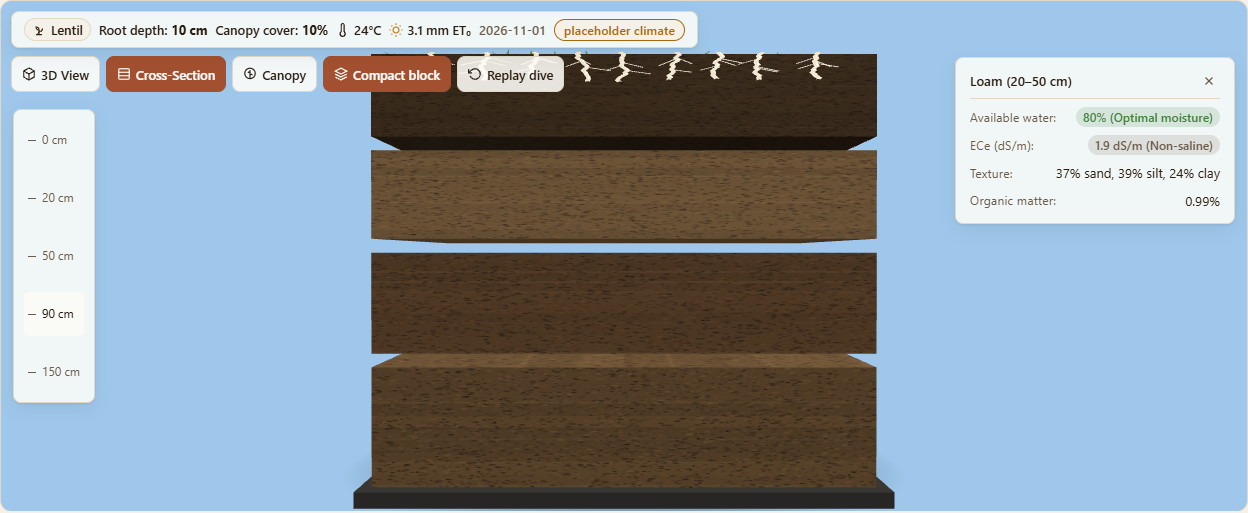
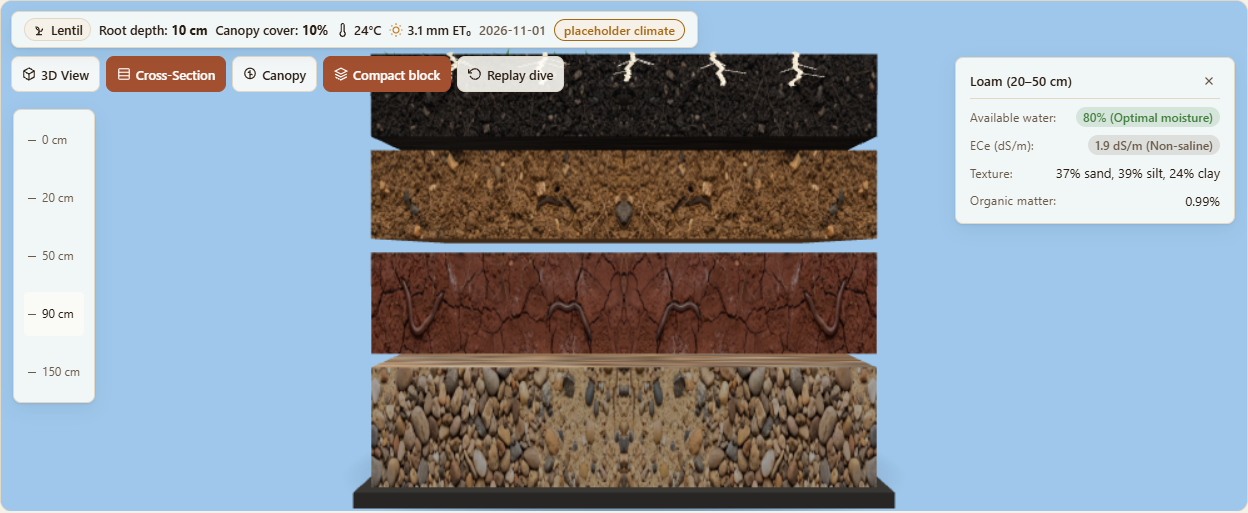
feat(web): apply authentic soil horizon textures and colors from 3d prototype

Changed region(s): [[0.2812, 0.0936, 0.7188, 0.9669]]

diff --git a/web/src/scene/SceneController.ts b/web/src/scene/SceneController.ts
@@ -3,9 +3,10 @@ import { Engine } from "@babylonjs/core/Engines/engine";
 import { DirectionalLight } from "@babylonjs/core/Lights/directionalLight";
 import { HemisphericLight } from "@babylonjs/core/Lights/hemisphericLight";
 import { DynamicTexture } from "@babylonjs/core/Materials/Textures/dynamicTexture";
+import { Texture } from "@babylonjs/core/Materials/Textures/texture";
 import { StandardMaterial } from "@babylonjs/core/Materials/standardMaterial";
 import { Color3, Color4 } from "@babylonjs/core/Maths/math.color";
-import { Matrix, Quaternion, Vector3 } from "@babylonjs/core/Maths/math.vector";
+import { Matrix, Quaternion, Vector3, Vector4 } from "@babylonjs/core/Maths/math.vector";
 import { Mesh } from "@babylonjs/core/Meshes/mesh";
 import { MeshBuilder } from "@babylonjs/core/Meshes/meshBuilder";
 import { TransformNode } from "@babylonjs/core/Meshes/transformNode";
@@ -102,15 +103,17 @@ function rng(seed: number) {
   };
 }
 
-function baseColor(layer: Layer): Color3 {
-  const sand = layer.sand / 100;
-  const silt = layer.silt / 100;
-  const clay = layer.clay / 100;
-  const r = 0.78 * sand + 0.55 * silt + 0.62 * clay;
-  const g = 0.66 * sand + 0.45 * silt + 0.33 * clay;
-  const b = 0.45 * sand + 0.35 * silt + 0.2 * clay;
-  const dark = 1 - Math.min(0.5, layer.om * 0.12);
-  return new Color3(r * dark, g * dark, b * dark);
+const LAYER_PALETTE = [
+  Color3.FromHexString("#241911"), // Layer 0: Dark humus topsoil (0-20 cm)
+  Color3.FromHexString("#45311f"), // Layer 1: Warm earthy subsoil (20-50 cm)
+  Color3.FromHexString("#60291b"), // Layer 2: Reddish clay loam (50-90 cm)
+  Color3.FromHexString("#5d5647"), // Layer 3: Mineral gravel substratum (90-150 cm)
+];
+
+function baseColor(layer: Layer, layerIdx: number): Color3 {
+  const palette = LAYER_PALETTE[layerIdx] ?? LAYER_PALETTE[0];
+  const omDark = 1 - Math.min(0.25, (layer.om ?? 1.5) * 0.05);
+  return new Color3(palette.r * omDark, palette.g * omDark, palette.b * omDark);
 }
 
 export class SceneController {
@@ -380,56 +383,12 @@ export class SceneController {
   }
 
   // ------------------------------------------------------------------ construction
-  private specklePair(seed: number, textureStr = "loam", om = 1.5): { soil: DynamicTexture; salt: DynamicTexture } {
-    const r = rng(seed);
+  private createSaltTexture(seed: number): DynamicTexture {
     const size = 512;
-    const soil = new DynamicTexture(`soilTex${seed}`, { width: size, height: size }, this.scene, true);
-    const ctx = soil.getContext();
-
-    // 1. Natural horizontal strata base gradient
-    ctx.fillStyle = "#dfd8cc";
-    ctx.fillRect(0, 0, size, size);
-
-    for (let b = 0; b < 10; b++) {
-      const y = (b / 10) * size;
-      const bandH = (size / 10) * (0.8 + r() * 0.4);
-      const v = Math.floor(180 + (r() - 0.5) * 50);
-      ctx.fillStyle = `rgba(${v}, ${Math.floor(v * 0.92)}, ${Math.floor(v * 0.82)}, 0.45)`;
-      ctx.fillRect(0, y, size, bandH);
-    }
-
-    // 2. Micro-pores & aggregate crumb clusters
-    const isClay = textureStr.includes("clay");
-    const isSand = textureStr.includes("sand");
-    const particleCount = isSand ? 4600 : isClay ? 2200 : 3400;
-
-    for (let i = 0; i < particleCount; i++) {
-      const px = r() * size;
-      const py = r() * size;
-      const pSize = isSand ? 1.5 + r() * 3.2 : isClay ? 1.0 + r() * 1.8 : 1.2 + r() * 2.5;
-      const darkness = Math.floor(130 + r() * 110);
-      ctx.fillStyle = `rgb(${darkness}, ${Math.floor(darkness * 0.93)}, ${Math.floor(darkness * 0.85)})`;
-      ctx.beginPath();
-      ctx.arc(px, py, pSize, 0, Math.PI * 2);
-      ctx.fill();
-    }
-
-    // 3. Organic matter humus specks
-    const omSpecks = Math.floor(clamp(om, 0.5, 4.0) * 400);
-    for (let i = 0; i < omSpecks; i++) {
-      const px = r() * size;
-      const py = r() * size;
-      const s = 1.0 + r() * 2.5;
-      const shade = Math.floor(40 + r() * 45);
-      ctx.fillStyle = `rgba(${shade}, ${Math.floor(shade * 0.8)}, ${Math.floor(shade * 0.6)}, ${0.6 + r() * 0.35})`;
-      ctx.fillRect(px, py, s, s);
-    }
-    soil.update();
-
-    // Salt efflorescence: dendritic crystalline clusters
     const salt = new DynamicTexture(`saltTex${seed}`, { width: size, height: size }, this.scene, true);
     const sctx = salt.getContext();
     sctx.clearRect(0, 0, size, size);
+    const r = rng(seed);
 
     for (let i = 0; i < 900; i++) {
       const sx = r() * size;
@@ -447,20 +406,33 @@ export class SceneController {
     }
     salt.hasAlpha = true;
     salt.update();
-
-    return { soil, salt };
+    return salt;
   }
 
   private buildLayers(): void {
     let top = 0;
+    const uRepeat = 2.0;
+    const faceUV = [
+      new Vector4(0, 0, uRepeat, 1), // 0: back (+z)
+      new Vector4(0, 0, uRepeat, 1), // 1: front (-z, cutaway)
+      new Vector4(0, 0, 1, 1),       // 2: right (+x)
+      new Vector4(0, 0, 1, 1),       // 3: left (-x)
+      new Vector4(0, 0, uRepeat, 1), // 4: top (+y)
+      new Vector4(0, 0, uRepeat, 1), // 5: bottom (-y)
+    ];
+
     LAYER_H.forEach((h, i) => {
-      const box = MeshBuilder.CreateBox(`layer${i}`, { width: W, height: h, depth: D }, this.scene);
-      const { soil, salt } = this.specklePair(11 + i);
+      const box = MeshBuilder.CreateBox(`layer${i}`, { width: W, height: h, depth: D, faceUV }, this.scene);
+      const tex = new Texture(`/textures/soil/layer_${i}.jpg`, this.scene);
+      tex.wrapU = Texture.MIRROR_ADDRESSMODE;
+      tex.wrapV = Texture.CLAMP_ADDRESSMODE;
+
       const mat = new StandardMaterial(`layerMat${i}`, this.scene);
-      mat.diffuseTexture = soil;
+      mat.diffuseTexture = tex;
       mat.specularPower = 28;
       box.material = mat;
 
+      const salt = this.createSaltTexture(11 + i);
       const plane = MeshBuilder.CreatePlane(`salt${i}`, { width: W, height: h }, this.scene);
       const smat = new StandardMaterial(`saltMat${i}`, this.scene);
       smat.diffuseTexture = salt;
@@ -475,7 +447,7 @@ export class SceneController {
       this.layerMats.push(mat);
       this.saltPlanes.push(plane);
       this.saltMats.push(smat);
-      this.layerBase.push(new Color3(0.45, 0.32, 0.2));
+      this.layerBase.push(LAYER_PALETTE[i] || new Color3(0.45, 0.32, 0.2));
       box.metadata = { top, h };
       top += h;
     });
@@ -558,7 +530,7 @@ export class SceneController {
   private rebuildLayersFromResult(): void {
     if (!this.result) return;
     this.result.layers.forEach((l, i) => {
-      this.layerBase[i] = baseColor(l);
+      this.layerBase[i] = baseColor(l, i);
     });
   }
 
@@ -760,9 +732,8 @@ export class SceneController {
     for (let i = 0; i < this.layerMats.length; i++) {
       const m = sim.moisture[i]?.[day] ?? 0.5;
       const wet = clamp(m / 1.1);
-      const base = this.layerBase[i];
-      const k = 1 - 0.48 * wet;
-      this.layerMats[i].diffuseColor = new Color3(base.r * k, base.g * k, base.b * k);
+      const k = 1 - 0.42 * wet;
+      this.layerMats[i].diffuseColor = new Color3(k, k, k);
 
       // Specular sheen on damp soil
       const wetSheen = 0.04 + 0.32 * Math.pow(wet, 2);

diff --git a/scripts/visual_verify.py b/scripts/visual_verify.py
@@ -47,7 +47,7 @@ def run():
             page = context.new_page()
 
             # Set localStorage before loading page
-            page.goto("http://localhost:4173")
+            page.goto("http://localhost:5173")
             page.evaluate(f"""() => {{
                 localStorage.setItem("lang", "{lang}");
                 localStorage.setItem("theme", "{theme}");

diff --git a/docs/plans/2026-11-13-soil-layer-textures.md b/docs/plans/2026-11-13-soil-layer-textures.md
@@ -1,0 +1,37 @@
+# Implementation Plan: Authentic Soil Horizon Textures & Shading
+
+**Task:** Match 3D soil layer colors and textures from prototype (`Journey Into the Soil (3D) (1).html`)  
+**Date:** 2026-11-13  
+**Scope:** `web/public/textures/soil/`, `web/src/scene/SceneController.ts`  
+
+---
+
+## 1. Problem & Context
+The current 3D monolith in `web/src/scene/` used procedurally generated speckle textures over an algorithmic brown tint, resulting in muddy, uniform brown layers that lacked visual depth and geological stratification.
+The reference prototype in `Journey Into the Soil (3D) (1).html` implements authentic photographic cutaway textures with a distinctive 4-horizon palette:
+- Layer 0 (Topsoil 0–20 cm): `#241911` (Deep dark humus / organic crumb loam)
+- Layer 1 (Subsoil 20–50 cm): `#45311f` (Warm golden-brown earthy loam)
+- Layer 2 (Clay Loam 50–90 cm): `#60291b` (Terra-cotta / reddish-brown fissured clay)
+- Layer 3 (Substratum 90–150 cm): `#5d5647` (Khaki/olive mineral rock & gravel)
+
+## 2. Technical Strategy
+1. **Texture Extraction**:
+   - Extract the 4 high-res base64 JPEG textures from `Journey Into the Soil (3D) (1).html` and save them under `web/public/textures/soil/`:
+     - `layer_0.jpg` (Topsoil crumb & organic matter)
+     - `layer_1.jpg` (Golden subsoil clods & root channels)
+     - `layer_2.jpg` (Reddish clay & blocky structure)
+     - `layer_3.jpg` (Pebbles, cobbles & coarse mineral substrate)
+2. **Material Architecture in `SceneController.ts`**:
+   - Set up faceUVs on `MeshBuilder.CreateBox` for each layer:
+     - Front face (`-z`): Mapped to photographic texture with high anisotropy and wrap mode.
+     - Top face (`+y`): Mapped to soil surface texture (Layer 0 receives `#cfc5ac` ground tint).
+     - Sides & Back (`±x`, `+z`): Solid standard material colored with the horizon base color (`#241911`, `#45311f`, `#60291b`, `#5d5647`).
+   - Set `layerBase` colors to `[#241911, #45311f, #60291b, #5d5647]`.
+   - Preserve dynamic simulation physics in `applyDay()`:
+     - Soil moisture modulates lightness: `k = 1 - 0.48 * wet`.
+     - Specular sheen dynamically reflects moisture saturation.
+     - Salt efflorescence overlay planes (`saltMats`) display crystalline salt blooming on saline days.
+3. **Verification**:
+   - Rebuild web bundle.
+   - Run Playwright screenshot capture across viewports and check visual contrast.
+   - Ensure all quality gates (`check_i18n.py`, `typecheck`, `build`, `ruff`, `pytest`) pass.
